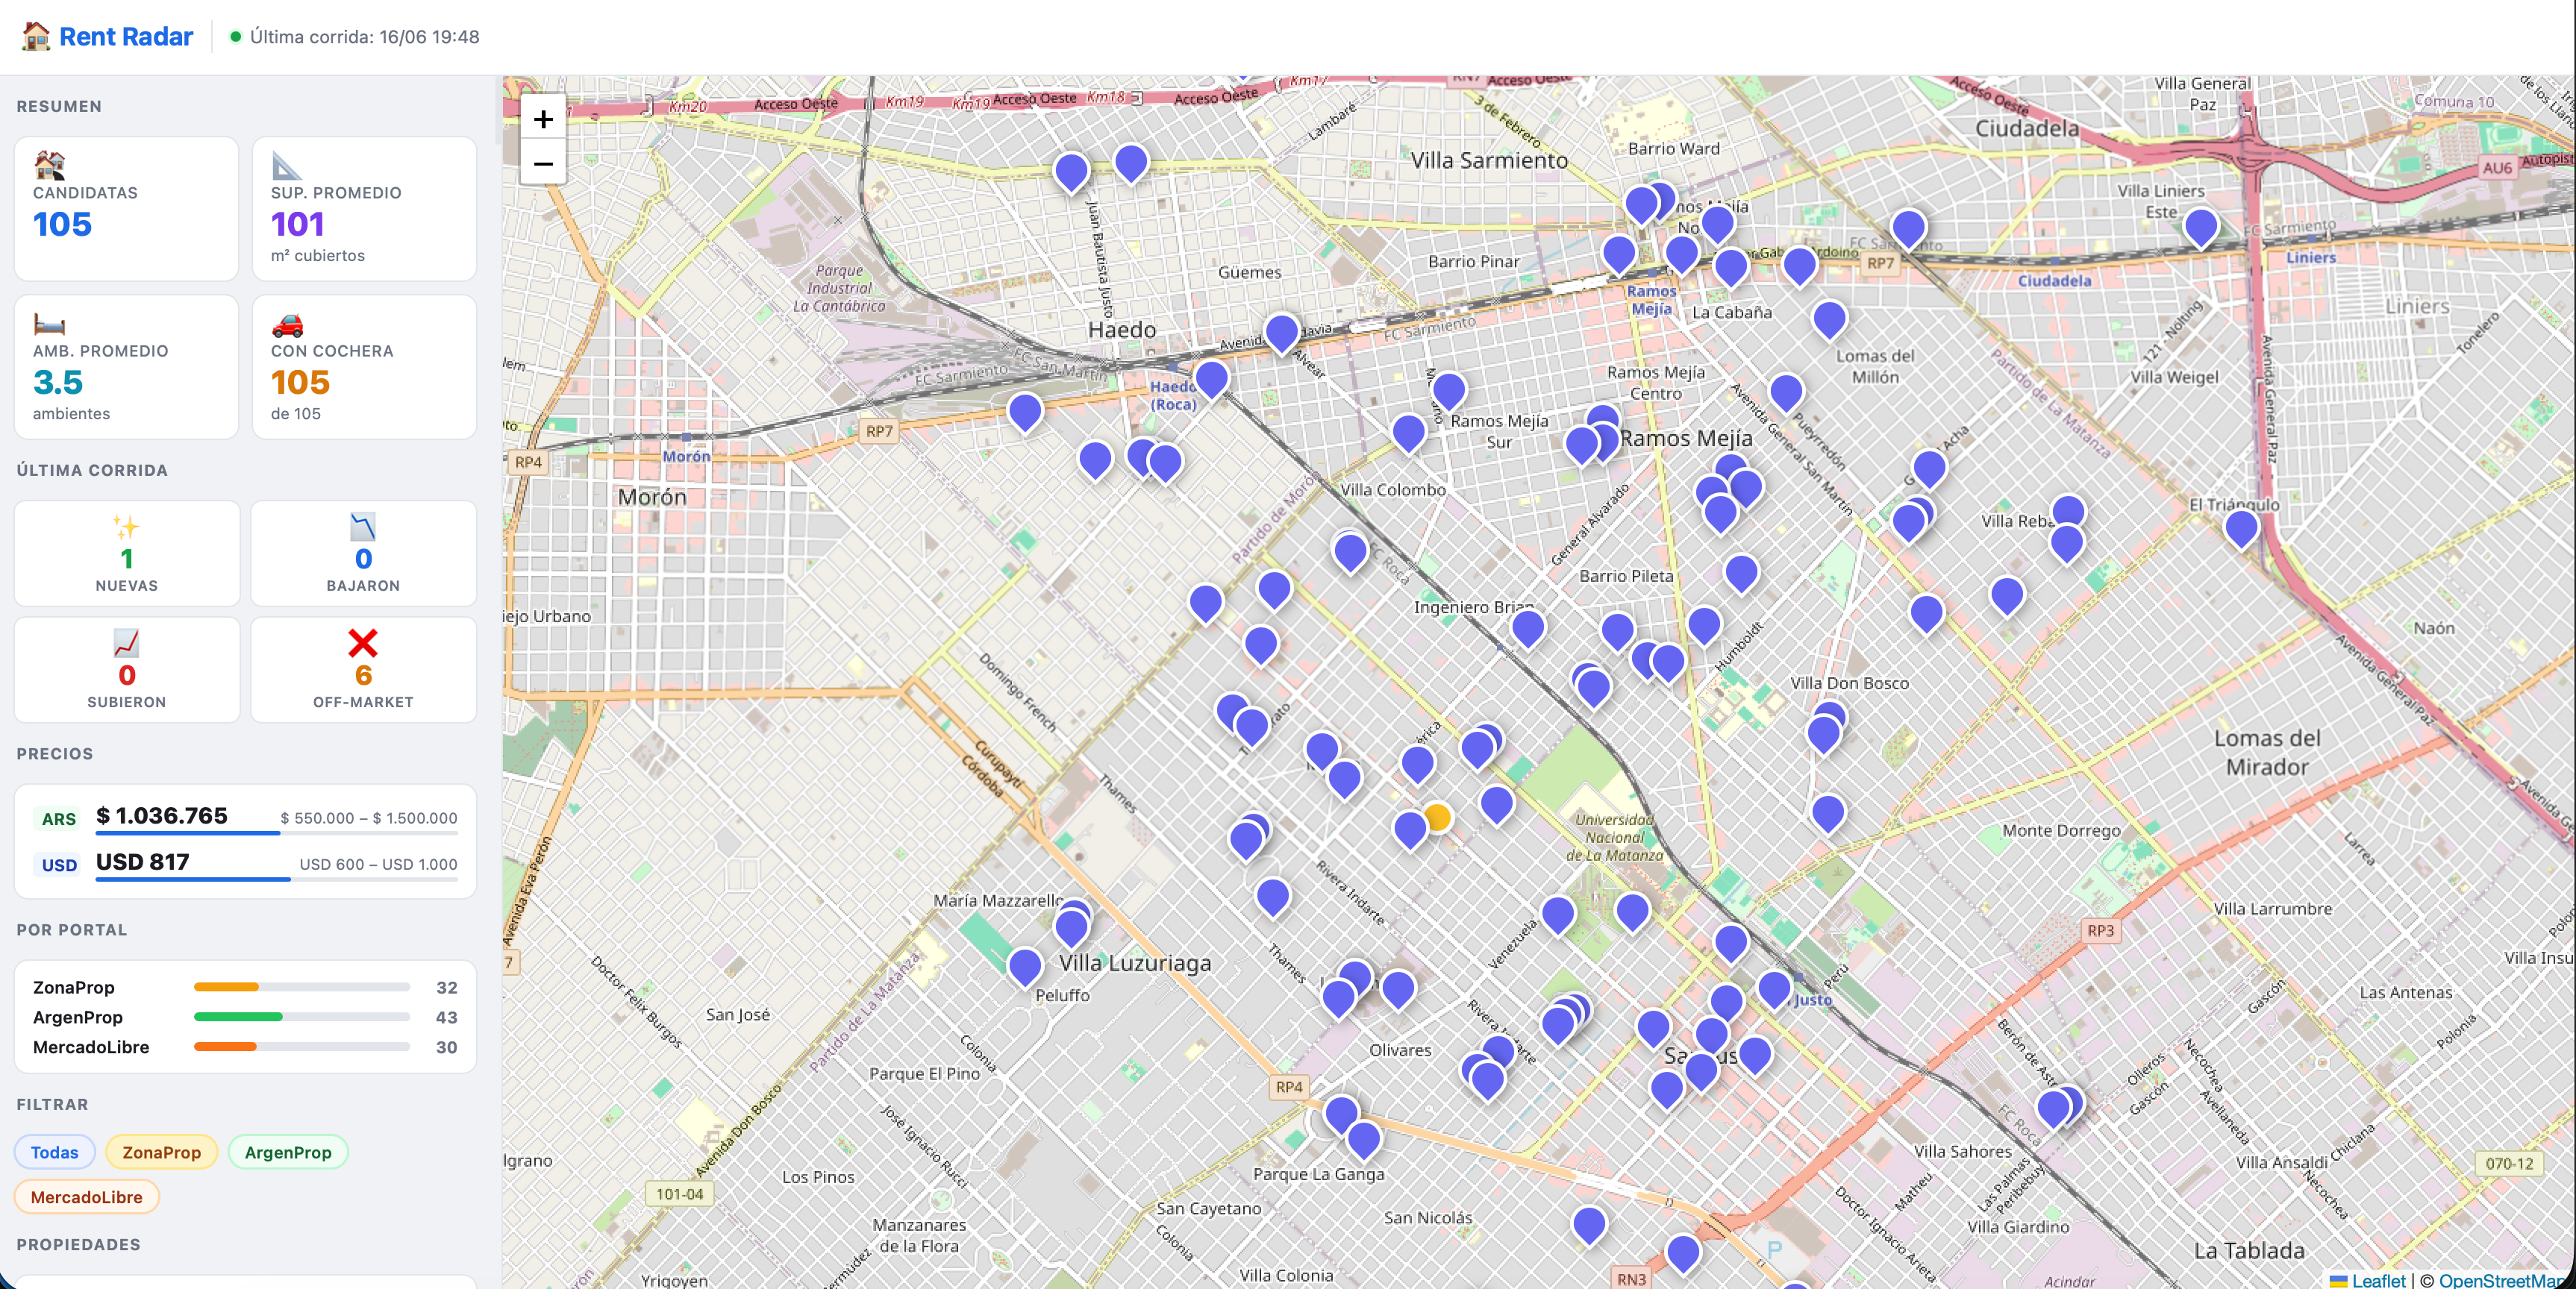
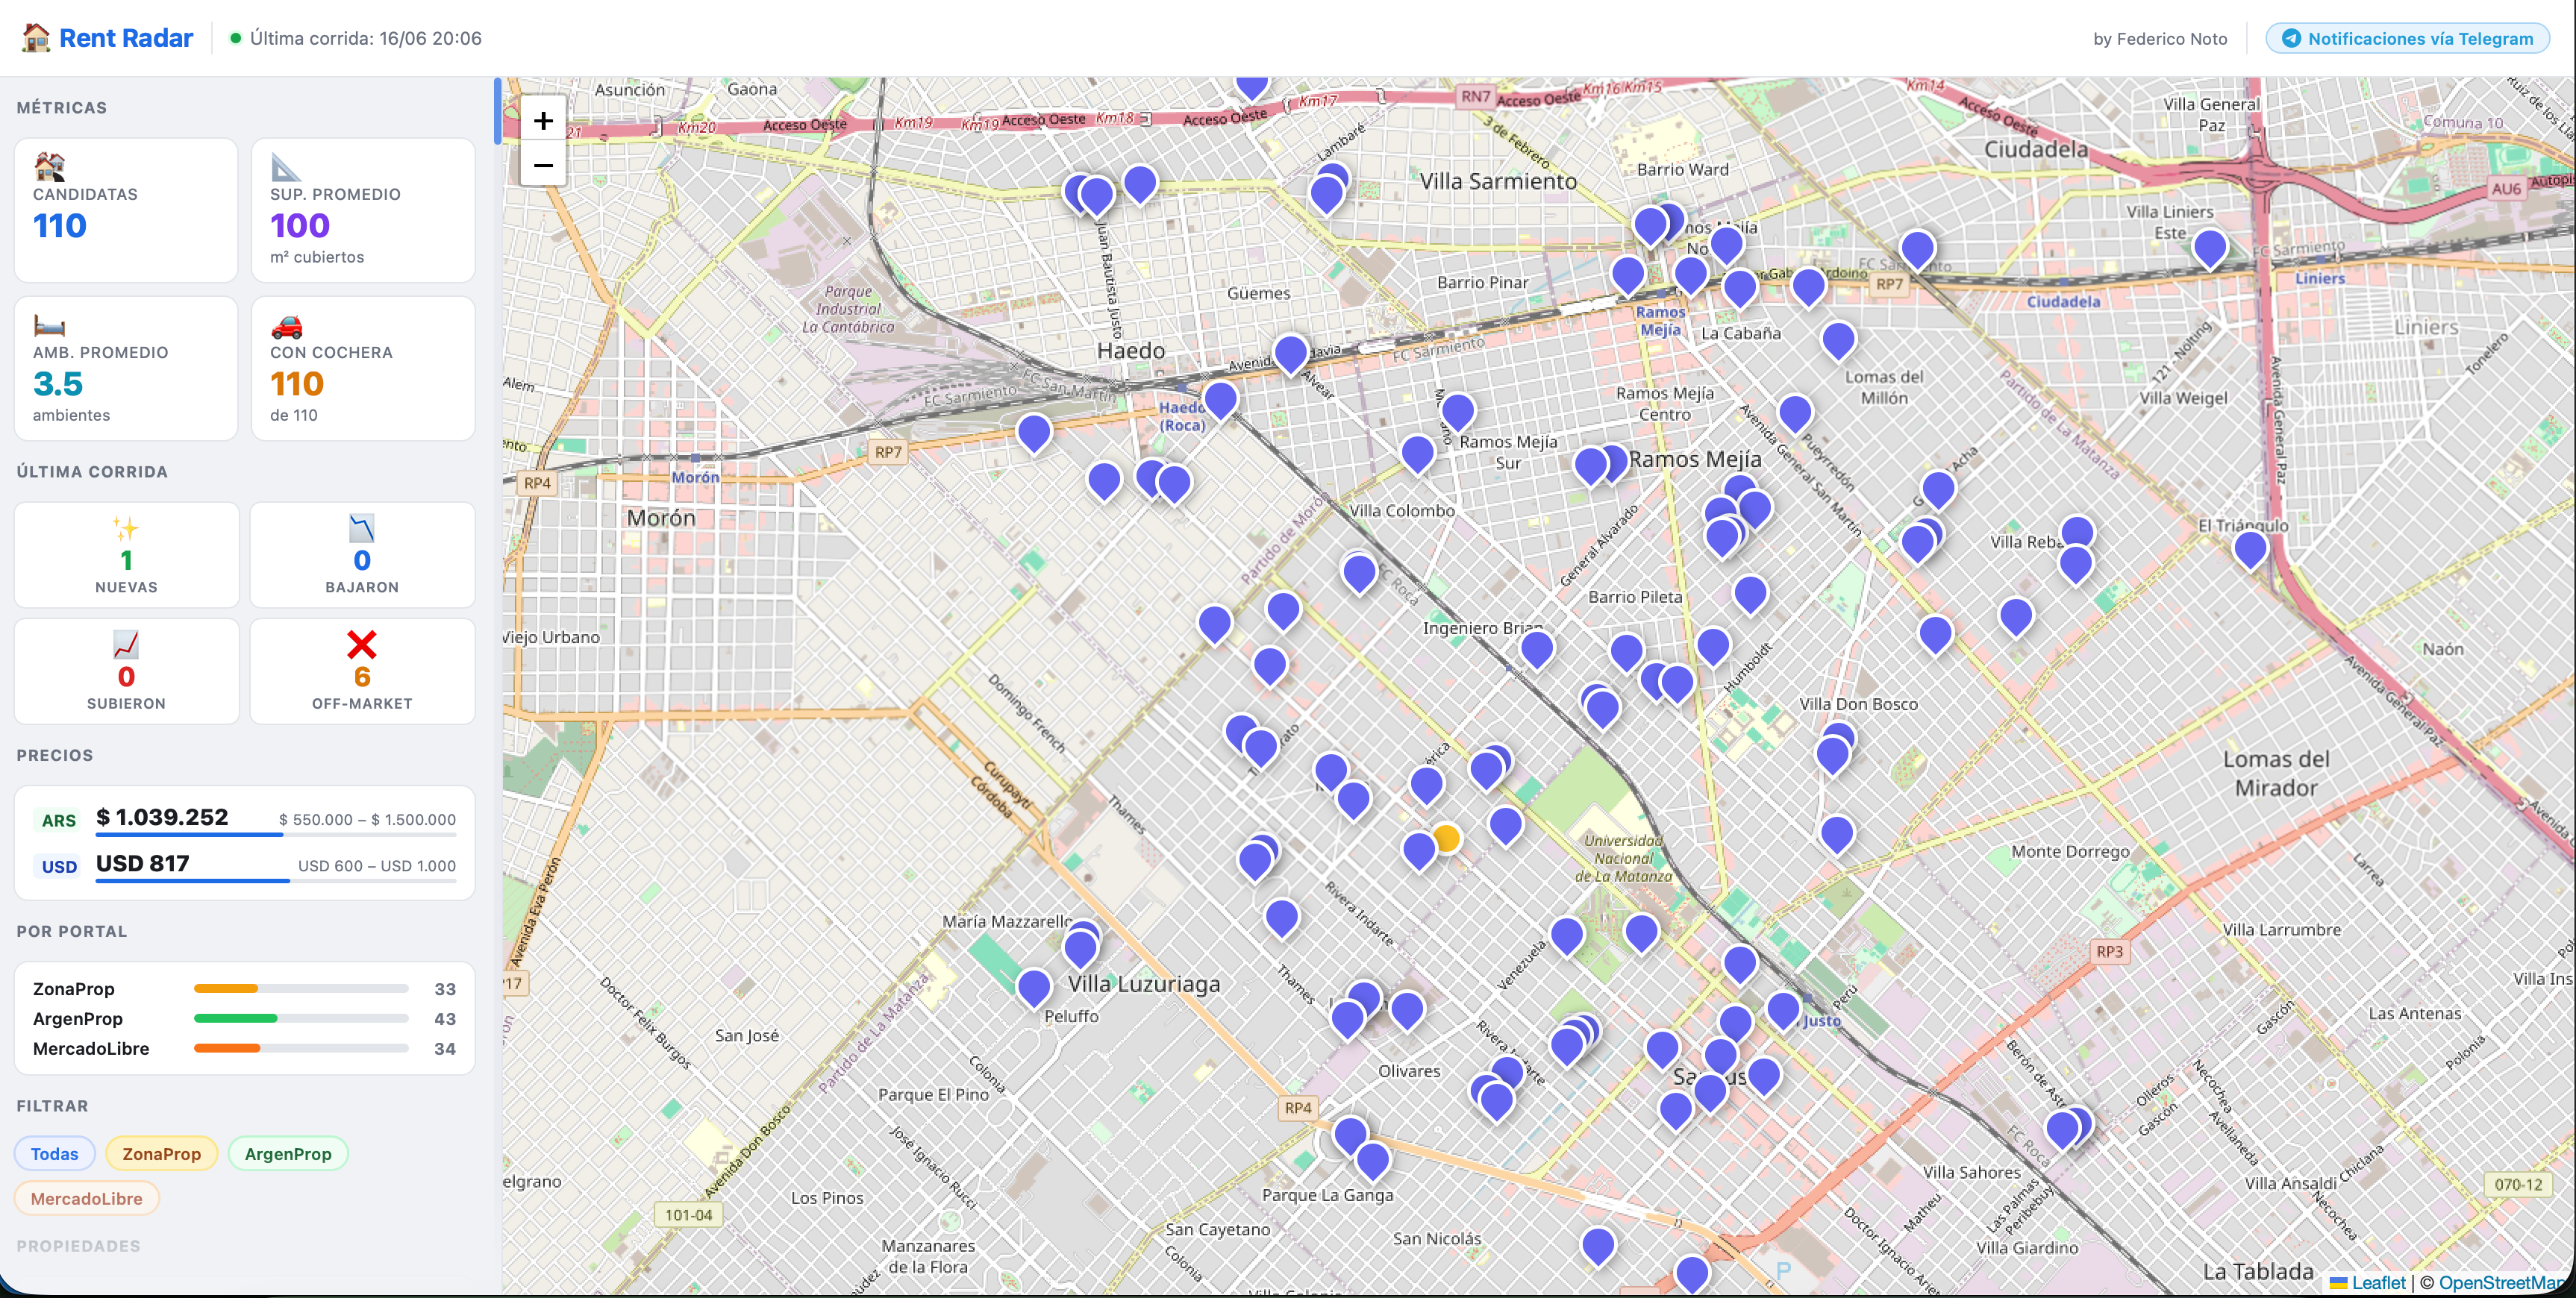
v1.5 se actualizan detalles esteticos del dashboard

diff --git a/run_dashboard.py b/run_dashboard.py
@@ -88,7 +88,7 @@ def build_ctx(rows: list[dict], m: dict) -> dict:
     return dict(
         datos_json=json.dumps(rows, default=str, ensure_ascii=False),
         ultima_corrida=ultima,
-        # resumen
+        # Métricas
         total_candidatas=_n(total, "—"),
         sup_promedio=_n(m.get("sup_promedio_m2"), "—"),
         ambientes_promedio=str(m.get("ambientes_promedio") or "—"),
@@ -144,13 +144,17 @@ HTML_TEMPLATE = """\
   .nav-dot {{ width:7px; height:7px; border-radius:50%; background:var(--green); box-shadow:0 0 0 2px #dcfce7; flex-shrink:0; }}
   .nav-spacer {{ flex:1; }}
   .nav-pill {{ font-size:11px; font-weight:600; padding:3px 10px; border-radius:20px; background:#EEF2FF; color:var(--blue); border:1px solid #C7D7FA; }}
+  .nav-tg {{ font-size:11px; font-weight:600; padding:3px 10px; border-radius:20px; background:#E8F4FD; color:#229ED9; border:1px solid #A8D5F5; display:flex; align-items:center; gap:5px; }}
+
 
   .layout {{ display:flex; flex:1; overflow:hidden; }}
 
   aside {{ width:var(--sidebar-w); flex-shrink:0; background:var(--bg); display:flex; flex-direction:column; overflow:hidden; border-right:1px solid var(--border); }}
-  .sidebar-inner {{ flex:1; overflow-y:auto; padding:14px 12px; display:flex; flex-direction:column; gap:14px; }}
-  .sidebar-inner::-webkit-scrollbar {{ width:4px; }}
-  .sidebar-inner::-webkit-scrollbar-thumb {{ background:var(--border); border-radius:4px; }}
+  .sidebar-inner {{ flex:1; overflow-y:auto; padding:14px 12px; display:flex; flex-direction:column; gap:14px; scrollbar-gutter:stable; mask-image:linear-gradient(to bottom, black 88%, transparent 100%); -webkit-mask-image:linear-gradient(to bottom, black 88%, transparent 100%); }}
+  .sidebar-inner::-webkit-scrollbar {{ width:5px; }}
+  .sidebar-inner::-webkit-scrollbar-track {{ background:#E8EBF0; border-radius:4px; }}
+  .sidebar-inner::-webkit-scrollbar-thumb {{ background:var(--blue); border-radius:4px; opacity:.7; }}
+  .sidebar-inner::-webkit-scrollbar-thumb:hover {{ background:#1558c0; }}
 
   .section-label {{ font-size:10.5px; font-weight:700; color:var(--muted); text-transform:uppercase; letter-spacing:.6px; padding:0 2px; }}
 
@@ -202,7 +206,7 @@ HTML_TEMPLATE = """\
   .prop-card:hover {{ box-shadow:0 2px 10px rgba(0,0,0,.08); border-color:#c5cfe8; }}
   .prop-card.selected {{ border-color:var(--blue); box-shadow:0 0 0 2px #c7d7fa; }}
   .prop-top {{ display:flex; align-items:flex-start; justify-content:space-between; gap:6px; }}
-  .prop-titulo {{ font-size:12.5px; font-weight:600; line-height:1.4.15; flex:1; }}
+  .prop-titulo {{ font-size:12.5px; font-weight:600; line-height:1.55; flex:1; }}
   .prop-badge {{ font-size:10px; font-weight:700; padding:2px 7px; border-radius:20px; white-space:nowrap; flex-shrink:0; margin-top:1px; }}
   .prop-precio {{ font-size:14px; font-weight:700; }}
   .prop-detalle {{ font-size:11px; color:var(--muted); }}
@@ -222,7 +226,7 @@ HTML_TEMPLATE = """\
   .mk-PRICE_UP   {{ background:#DC2626; }}
   .mk-ref {{ width:24px; height:24px; border-radius:50%; background:#FBBF24; border:3px solid white; box-shadow:0 2px 10px rgba(0,0,0,.4); }}
 
-  .popup-titulo {{ font-weight:700; font-size:13px; margin-bottom:4px; line-height:1.4.1; }}
+  .popup-titulo {{ font-weight:700; font-size:13px; margin-bottom:4px; line-height:1.5; }}
   .popup-precio {{ font-size:15px; font-weight:800; color:var(--blue); margin-bottom:3px; }}
   .popup-det    {{ font-size:11.5px; color:#555; margin-bottom:2px; }}
   .popup-loc    {{ font-size:11px; color:#888; margin-bottom:7px; }}
@@ -247,13 +251,15 @@ HTML_TEMPLATE = """\
     Última corrida: {ultima_corrida}
   </div>
   <div class="nav-spacer"></div>
-  
+  <span style="font-size:11px;color:var(--muted);">by Federico Noto</span>
+  <div class="nav-sep"></div>
+  <div class="nav-tg"><svg xmlns="http://www.w3.org/2000/svg" width="13" height="13" viewBox="0 0 24 24" fill="currentColor" style="flex-shrink:0"><path d="M11.944 0A12 12 0 0 0 0 12a12 12 0 0 0 12 12 12 12 0 0 0 12-12A12 12 0 0 0 12 0a12 12 0 0 0-.056 0zm4.962 7.224c.1-.002.321.023.465.14a.506.506 0 0 1 .171.325c.016.093.036.306.02.472-.18 1.898-.962 6.502-1.36 8.627-.168.9-.499 1.201-.82 1.23-.696.065-1.225-.46-1.9-.902-1.056-.693-1.653-1.124-2.678-1.8-1.185-.78-.417-1.21.258-1.91.177-.184 3.247-2.977 3.307-3.23.007-.032.014-.15-.056-.212s-.174-.041-.249-.024c-.106.024-1.793 1.14-5.061 3.345-.48.33-.913.49-1.302.48-.428-.008-1.252-.241-1.865-.44-.752-.245-1.349-.374-1.297-.789.027-.216.325-.437.893-.663 3.498-1.524 5.83-2.529 6.998-3.014 3.332-1.386 4.025-1.627 4.476-1.635z"/></svg> Notificaciones vía Telegram</div>
 </nav>
 
 <div class="layout">
 <aside><div class="sidebar-inner">
 
-  <div class="section-label">Resumen</div>
+  <div class="section-label">Métricas</div>
   <div class="metrics-grid">
     <div class="metric-card">
       <div class="metric-icon">🏘️</div>
@@ -304,7 +310,6 @@ HTML_TEMPLATE = """\
       <span class="ev-label">Off-market</span>
     </div>
   </div>
-
   <div class="section-label">Precios</div>
   <div class="precios-strip">
     <div class="precio-row">
@@ -359,10 +364,12 @@ HTML_TEMPLATE = """\
   <div class="section-label">Propiedades</div>
   <div class="prop-list" id="lista"></div>
 
-</div></aside>
+</div>
+</aside>
 
 <div id="mapa"></div>
 </div>
+
 
 <script src="https://unpkg.com/leaflet@1.9.4/dist/leaflet.js"></script>
 <script>

diff --git a/README.md b/README.md
@@ -8,7 +8,7 @@
 ![Prefect](https://img.shields.io/badge/Prefect-self--hosted-7B4FFF?logo=prefect&logoColor=white)
 ![Postgres](https://img.shields.io/badge/Neon-Postgres-00E599?logo=postgresql&logoColor=white)
 ![Telegram](https://img.shields.io/badge/Telegram-Bot_API-26A5E4?logo=telegram&logoColor=white)
-![Version](https://img.shields.io/badge/version-1.4.1-blue)
+![Version](https://img.shields.io/badge/version-1.5-blue)
 
 ---
 